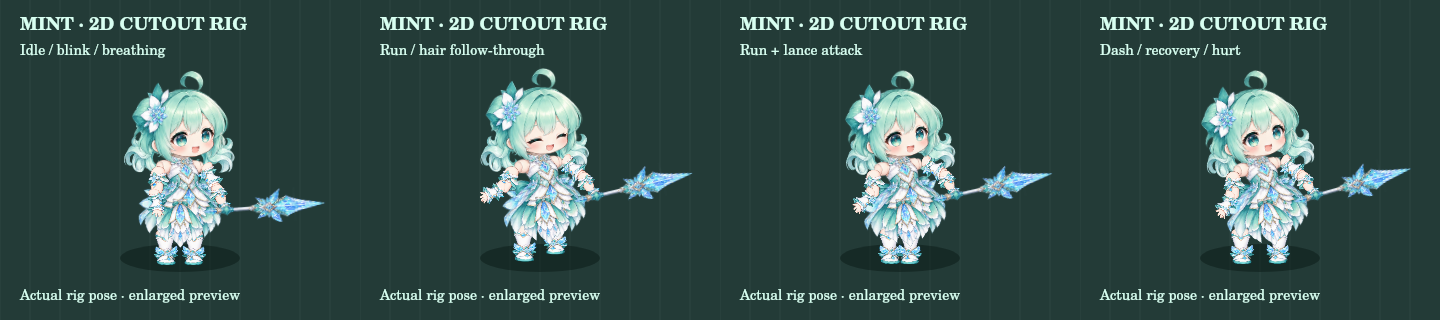
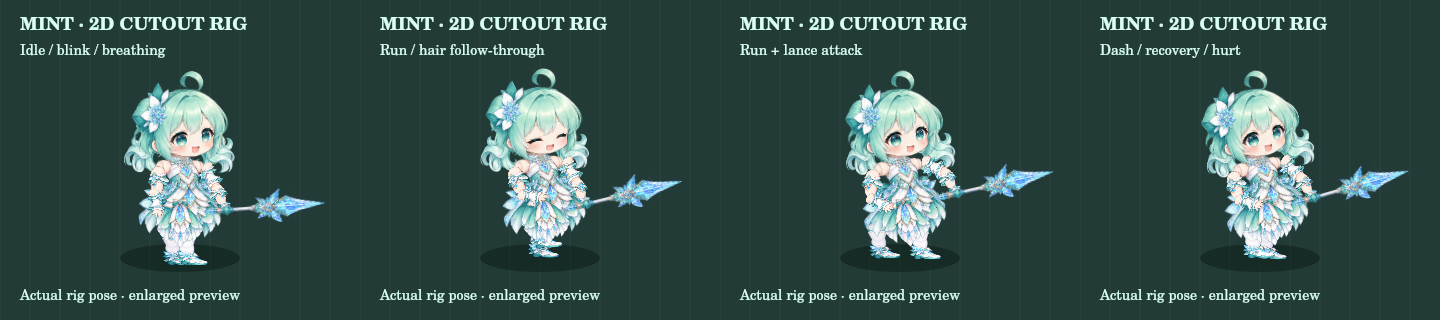
fix: correct Mint elbow flexion and directional boot run — v6.0.60

diff --git a/game.js b/game.js
@@ -50,7 +50,7 @@ function clampPlayerStats(p){ if(p._uqGlass){p.maxhp=Math.max(1,Math.round(p.max
 const TAU = Math.PI * 2;   // global — Game scene (บอส/VFX) อ้างถึง TAU ด้วย เดิมประกาศเฉพาะใน Boot.create → "TAU is not defined"
 
 /* ---- เวอร์ชัน + บันทึกUpdates (build-www ดึงไปทำ version.json ให้หน้า download) ---- */
-const GAME_VERSION = '6.0.59';
+const GAME_VERSION = '6.0.60';
 // Miniboss rewards: choose damage at an HP cost, or recovery.
 const CROSSROADS=[
   {id:'blood',name:'Blood Pact',desc:'+25% damage for 90 seconds',detail:'Lose 30% of current HP',artKey:'prize_jackpot',color:0xff6f9d},
@@ -60,6 +60,7 @@ const CROSSROADS=[
 const HURT_IFRAME_MUL = 0.6;
 const RELEASES_URL = 'https://github.com/hardza1230/Survival-like-Mobile-Game/releases/download/latest/mochi-mayhem-debug.apk';
 const CHANGELOG = [
+  { v:'6.0.60', date:'2026-10-01', title:'Mint directional run correction', items:['Both knees flex backward in a side-plane run rather than a frontal shuffle','Free elbow bends forward and the arms counter the stride','Matching right-facing boot artwork replaces front-facing feet'] },
   { v:'6.0.59', date:'2026-10-01', title:'Mint flowing run cycle', items:['Bent elbows and visible arm swing replace the tucked walking pose','Smooth toe lift, longer stride and coordinated body bounce form a run cycle','Head counter-motion and delayed hair/skirt sway follow locomotion during attacks'] },
   { v:'6.0.58', date:'2026-10-01', title:'Mint neutral limb rebuild', items:['Repainted straight bind-pose limbs replace baked bent arms and legs','Shoulder, elbow and hand anchors calibrated to the painted joints','Matched boot stance and relaxed lance grip preserve a coherent silhouette'] },
   { v:'6.0.57', date:'2026-10-01', title:'Mint rig gait and grip correction', items:['Planted feet and two-bone knee solving prevent crossed legs','Shorter chibi stride and distance-based gait smooth walking','Lance remains attached to the hand through casts; relaxed arm pose'] },
@@ -4121,29 +4122,29 @@ const ACHIEVEMENTS=[
 ];
 
 // Mint cutout rig: hierarchical bones, rigid painted skins; no mesh/runtime dependency.
-const MINT_RIG_FRAMES = [{"x":18,"y":6,"w":92,"h":116},{"x":148,"y":6,"w":88,"h":116},{"x":262,"y":9,"w":116,"h":110},{"x":394,"y":6,"w":108,"h":116},{"x":6,"y":135,"w":116,"h":113},{"x":155,"y":134,"w":73,"h":116},{"x":295,"y":134,"w":50,"h":116},{"x":421,"y":134,"w":53,"h":116},{"x":38,"y":262,"w":52,"h":116},{"x":168,"y":262,"w":47,"h":116},{"x":298,"y":262,"w":43,"h":116},{"x":427,"y":262,"w":42,"h":116},{"x":42,"y":390,"w":43,"h":116},{"x":134,"y":431,"w":116,"h":33},{"x":262,"y":396,"w":116,"h":103},{"x":390,"y":390,"w":116,"h":115}];
+const MINT_RIG_FRAMES = [{"x":18,"y":6,"w":92,"h":116},{"x":148,"y":6,"w":88,"h":116},{"x":262,"y":9,"w":116,"h":110},{"x":394,"y":6,"w":108,"h":116},{"x":6,"y":135,"w":116,"h":113},{"x":155,"y":134,"w":73,"h":116},{"x":295,"y":134,"w":50,"h":116},{"x":421,"y":134,"w":53,"h":116},{"x":38,"y":262,"w":52,"h":116},{"x":168,"y":262,"w":47,"h":116},{"x":294,"y":262,"w":52,"h":116},{"x":427,"y":262,"w":42,"h":116},{"x":38,"y":390,"w":52,"h":116},{"x":134,"y":431,"w":116,"h":33},{"x":262,"y":396,"w":116,"h":103},{"x":390,"y":390,"w":116,"h":115}];
 const MINT_RIG_BONES = [
   ['hip',null,0,0],['torso','hip',0,-1],['head','torso',0,-14],
   ['hairL','head',-11,-14],['hairR','head',11,-14],
   ['armL','torso',-7.5,-4],['foreL','armL',0,8],
   ['armR','torso',8,-4],['foreR','armR',0,8],['lance','foreR',0,8.5],
-  ['thighL','hip',-5,9],['shinL','thighL',0,8],
-  ['thighR','hip',5,9],['shinR','thighR',0,8],['skirt','torso',0,8]
+  ['thighL','hip',-2.5,9],['shinL','thighL',0,8],
+  ['thighR','hip',2.5,9],['shinR','thighR',0,8],['skirt','torso',0,8]
 ];
 // bone, atlas part, painted width/height, joint origin, draw order
 const MINT_RIG_SKINS = [
  ['hairL',0,16,29,.55,.12,0],['hairR',1,16,29,.45,.12,1],
- ['thighL',9,7,9,.45,.08,2],['shinL',10,9,13,.45,.06,3],
- ['thighR',11,7,9,.5,.08,4],['shinR',12,9,13,.5,.06,5],
+ ['thighL',9,7,9,.45,.08,2],['shinL',10,11.5,13,.35,.06,3],
+ ['thighR',11,7,9,.5,.08,4],['shinR',12,11.5,13,.35,.06,5],
  ['armL',5,8,10,.5,.08,8],['foreL',6,7,10,.5,.06,9],
  ['torso',4,30,32,.5,.30,6],['skirt',14,17,18,.5,.08,7],
  ['armR',7,8,10,.5,.08,10],['foreR',8,7,10,.5,.06,11],
  ['lance',13,44,12,.17,.5,12],['head',2,35,33,.5,.76,13]
 ];
-// Downward-axis two-bone IK. Each foot stays in its own screen-space lane.
+// Side-plane IK: both knees flex backward; far/near legs keep their skin identity.
 function mintRigLeg(phase,move,side){
  const swing=Math.max(0,Math.sin(phase)),lift=swing*swing*4.1*move,
-   dx=Math.cos(phase)*1.65*move,dy=19.6-lift+Math.sin(phase)*.35*move,
+   dx=-Math.cos(phase)*5.2*move,dy=19.6*(1-move)+17.8*move-lift,
    upper=8,lower=12,d=Math.min(upper+lower-.01,Math.hypot(dx,dy)),
    clamp=v=>Math.max(-1,Math.min(1,v)),aim=Math.atan2(-dx,dy),
    knee=Math.acos(clamp((d*d-upper*upper-lower*lower)/(2*upper*lower))),
@@ -4153,22 +4154,24 @@ function mintRigLeg(phase,move,side){
 function mintRigPose(time,phase,move,cast,dash,hurt){
  const step=Math.sin(phase),breath=Math.sin(time*3),
    thrust=Math.sin(Math.PI*Math.max(0,Math.min(1,cast))),
-   left=mintRigLeg(phase,move,1),right=mintRigLeg(phase+Math.PI,move,-1),
+   left=mintRigLeg(phase,move,1),right=mintRigLeg(phase+Math.PI,move,1),
    // Free elbow stays bent and pumps opposite the leading leg. Weapon arm also runs.
-   arm=-.65-.6*thrust-.12*dash+(.22*step-.05)*move,
-   fore=.35+.6*thrust+.12*dash+(.10-.10*step)*move;
+   arm=-.65-.6*thrust-.12*dash+(-.22*step-.05)*move,
+   fore=.35+.6*thrust+.12*dash+(.10+.10*step)*move;
  return {hip:{y:-(.5-.5*Math.cos(phase*2))*1.25*move+breath*.18},
   torso:{rotation:(-.10+.035*step)*move-.065*thrust-.10*dash+.08*hurt},
   head:{rotation:.015*breath+(.06-.025*step)*move+.025*thrust-.05*hurt},
   hairL:{rotation:.115*Math.sin(phase-.85)*move+.025*Math.sin(time*2.3)-.2*dash},
   hairR:{rotation:.10*Math.sin(phase-1.0)*move+.025*Math.sin(time*2.3+.6)-.18*dash},
-  armL:{x:-1.3*move,rotation:.035+(.15-.45*step)*move-.12*dash+.08*hurt},
-  foreL:{rotation:.035+(.82+.12*Math.cos(phase))*move},
+  armL:{x:-1.3*move,rotation:.035+(.15+.45*step)*move-.12*dash+.08*hurt},
+  foreL:{rotation:.035+(-.92-.08*Math.cos(phase))*move},
   armR:{x:.7*move,rotation:arm},foreR:{rotation:fore},
   lance:{rotation:-arm-fore-.07+.045*Math.sin(phase-.35)*move},
   thighL:{rotation:left.thigh},shinL:{rotation:left.knee},
   thighR:{rotation:right.thigh},shinR:{rotation:right.knee},
-  skirt:{rotation:.045*Math.sin(phase-.7)*move-.04*dash}};
+  skirt:{rotation:.045*Math.sin(phase-.7)*move-.04*dash},
+  footL:{rotation:-Math.max(0,Math.sin(phase))*.12*move},
+  footR:{rotation:-Math.max(0,Math.sin(phase+Math.PI))*.12*move}};
 }
 class MintCutoutRig {
  constructor(scene){
@@ -4193,7 +4196,7 @@ class MintCutoutRig {
    if(name==='shinL'||name==='shinR'){
     // Keep the ankle planted while the knee flexes. Boot skin pivots around its sole.
     const angle=b.worldRotation,footX=b.worldX-Math.sin(angle)*12,footY=b.worldY+Math.cos(angle)*12;
-    skin.setOrigin(.5,.93).setPosition(footX,footY+.1).setRotation(0);
+    skin.setOrigin(.35,.93).setPosition(footX,footY+.1).setRotation((pose[name==='shinL'?'footL':'footR']||{}).rotation||0);
    }else skin.setPosition(b.worldX,b.worldY).setRotation(b.worldRotation);
   }
  }

diff --git a/docs/MINT_RIG_TRIAL.md b/docs/MINT_RIG_TRIAL.md
@@ -46,3 +46,9 @@ Generation brief: four columns by two rows, one detached limb per cell, transpar
 ## v6.0.59 flowing run
 
 Accepted neutral limbs retained. Added visibly bent elbows and free-arm pumping; both arms participate in locomotion while the right arm also casts. Free arm layers over the dress rather than disappearing behind it. Toe lift uses a squared positive sine for softer lift/landing; swing clearance increased to 4.1px, stride to 1.65px. Hip bob uses a smooth double-step cosine, torso leans into travel with head counter-motion, and hair blends more slowly than arm joints. Idle/run blend and continuous distance-based gait remain. Tests cover visible arm range, bent running elbow, swing clearance, draw ordering, stop blend, no crossed feet, grip attachment and 30/60 FPS phase. Focused run/run-cast preview: `docs/previews/mint_run_v6_0_59.gif`. Real-device feel review remains pending.
+
+## v6.0.60 directional run correction
+
+The v6.0.59 free forearm flexed toward the rear and the frontal lane solver looked like a sideways shuffle. Free elbow flexion now points forward, and counter-swing follows the forward/back stride. Both knees bend toward the rear, with hip origins narrowed to ±2.5px. Swing travels rear → front with toe lift; stance travels front → rear. Feet may pass in projection, which is normal for this view; skin identity and far/near layering stay fixed. Regression checks replace frontal no-crossing constraints with knee bend direction, bounded toe angle, fixed leg skins and an 8px minimum sagittal stride.
+
+Built-in imagegen generated two matched right-facing three-quarter profile boots with vertical calves, complete overlap joints, the existing mint/white crystal palette, no front-facing toes, no opposite-facing shoes, no text or ground shadow. Reference: packed Mint parts atlas. Source: `assets/incoming/mint_rig/mint_profile_boots_source.png`. `scripts/pack-mint-rig-boots.cjs` overlays slots 10/12 after the neutral-limb packer and updates frame bounds. Full pipeline: `node scripts/pack-mint-rig.cjs`. Preview: `docs/previews/mint_run_v6_0_60.gif`; six-phase contact sheet: `docs/previews/mint_run_cycle_v6_0_60.png`. Automated tests/build and preview inspection pass; real-device feel review remains pending.

diff --git a/CLAUDE.md b/CLAUDE.md
@@ -1,3 +1,7 @@
+## Mint directional run correction — v6.0.60
+
+Feedback identified backward-bent free elbow and front-facing feet shuffling outward. Free forearm flexion reversed to forward. Replaced frontal separate foot lanes with sagittal forward/back stride; both knees bend backward with stable far/near skin identity. Hip origins narrowed, swing foot advances from rear to front while stance returns rearward; toe lift bounded. Generated matching right-facing profile boots and added reproducible boot overlay packer. Contact cycle and run GIF inspected; full checks/build pass, mobile feel review pending. Preview docs/previews/mint_run_v6_0_60.gif.
+
 ## Mint flowing run — v6.0.59
 
 User accepted limb shapes but gait felt robotic with arms tucked against body. Added visible bent-elbow free-arm pumping, coordinated weapon-arm movement during locomotion, smooth squared-sine swing lift, wider stride, sinusoidal double-step hip bounce, forward torso lean/head counter-motion and delayed hair/skirt sway. Free arm now draws over dress. Idle/run transitions use existing exponential blends; gait phase remains distance based and continuous through casts. Tests verify arm swing/elbow bend/foot clearance/layering and stop blend in addition to no crossed feet and stable grip. Preview: docs/previews/mint_run_v6_0_59.gif. Real-device feel review pending.
